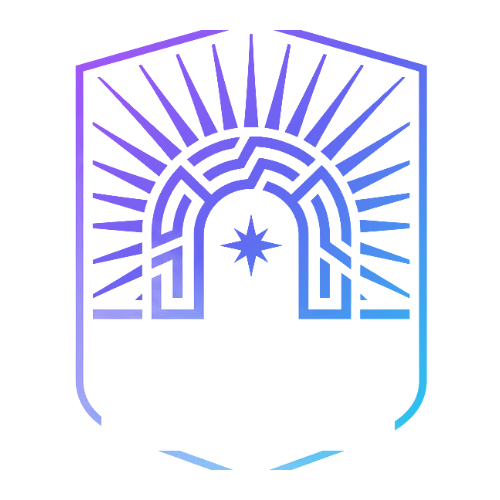
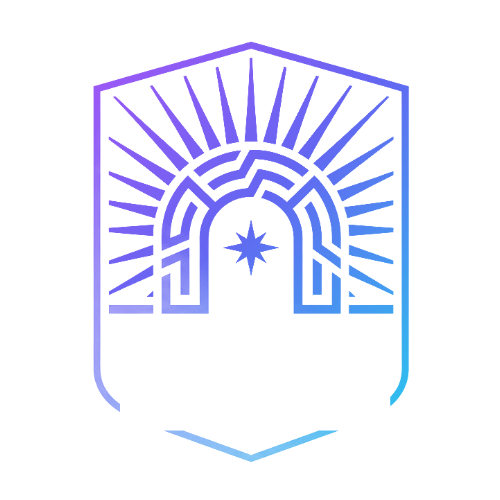
Corrige brasões cortados, centraliza última linha e expande satélites
- Conserta 5 brasões (Quíron, Apolo, Odyssey, Oráculo, Égide) que
  saíram com falhas visuais depois da remoção de texto: o crop estava
  curto demais e cortava a ponta do escudo, e a caixa preta usada pra
  apagar o texto embutido invadia a borda do escudo em alguns casos.
  Recalculei crop e blackout de cada um com uma grade de referência
  sobre a imagem original pra pegar as coordenadas certas.
- Última linha da grade de satélites (Oráculo/Égide, os 2 que sobram
  no desktop de 4 colunas) agora fica centralizada nas colunas do
  meio em vez de alinhada à esquerda.
- Cada card de satélite expande ao clicar (ou Enter/Espaço com
  teclado), mostrando um resumo de 2-3 frases do mecanismo técnico
  concreto por trás dele, nas 3 línguas — sem o jargão interno da
  spec (Tribunal da Forja, Break-Glass etc.), só o que é apresentável
  externamente. Expande só o card clicado (grid com align-items:
  start), sem esticar os vizinhos da mesma linha.

diff --git a/js/zenithcode-data.js b/js/zenithcode-data.js
@@ -75,20 +75,34 @@ const ZENITHCODE = {
       intro:
         "O núcleo (Z2A) é o kernel inviolável; cada satélite é um plugin opcional, acoplado só quando a empresa cruza um gatilho de dor real — nunca um monólito obrigatório.",
       items: [
-        { id: "01", slug: "themis", name: "Themis", domain: "Segurança & Compliance", gloss: "Gate determinístico de segurança: gera vulnerabilidade, o build quebra." },
-        { id: "02", slug: "argus", name: "Árgus", domain: "FinOps / Orçamento", gloss: "Orçamento como código: cada serviço carrega seu próprio custo real." },
-        { id: "03", slug: "dk-ops", name: "DK-Ops", domain: "Plataforma / SRE / IDP", gloss: "Plataforma interna que absorve a complexidade de infra do time de produto." },
-        { id: "04", slug: "quiron", name: "Quíron", domain: "RH Sociotécnico / Ergonomia", gloss: "Carga cognitiva e progressão de carreira tratadas como métrica de engenharia." },
-        { id: "05", slug: "hefesto", name: "Hefesto", domain: "Hardware / IoT / Gêmeos Digitais", gloss: "Simulação ciber-física antes de tocar hardware real." },
-        { id: "06", slug: "evelyn", name: "E.V.E.L.Y.N.", domain: "IA Central + Edge", gloss: "Modelos locais (SLMs) que sugerem, nunca decidem sozinhos." },
-        { id: "07", slug: "apolo", name: "Apolo", domain: "Go-To-Market / Vendas", gloss: "Gateway comercial: onde a arquitetura encontra o cliente." },
-        { id: "08", slug: "prometeu", name: "Prometeu", domain: "Validação / Red Team", gloss: "Conselho adversarial que tenta furar toda regra nova antes de valer." },
-        { id: "09", slug: "atlas", name: "Atlas", domain: "Governança Societária / Geográfica", gloss: "Compliance fiscal e jurídico como código, não como planilha." },
-        { id: "10", slug: "catharsis", name: "Catharsis", domain: "Desconstrução de Mindset", gloss: "Primeiro passo de quem entra: desaprender atalho antes de aprender arquitetura." },
-        { id: "11", slug: "hermes", name: "Hermes", domain: "Supply Chain / Logística", gloss: "Rastreabilidade ponta a ponta de tudo que é físico no sistema." },
-        { id: "12", slug: "odyssey", name: "Odyssey", domain: "Onboarding de Elite", gloss: "Cockpits setoriais que aceleram quem chega sem baixar a régua." },
-        { id: "13", slug: "oraculo", name: "Oráculo", domain: "Data Mesh / LGPD", gloss: "Dado tratado como produto, com dono e ciclo de vida, não como despejo." },
-        { id: "14", slug: "egide", name: "Égide", domain: "ITSM / Suporte", gloss: "Camada que absorve o chão de fábrica: incidentes, contratos, suporte." },
+        { id: "01", slug: "themis", name: "Themis", domain: "Segurança & Compliance", gloss: "Gate determinístico de segurança: gera vulnerabilidade, o build quebra.",
+          detail: "A manifestação prática é o AegisProtocol: um sidecar de identidade Zero-Trust que valida cada requisição por atributo (ABAC/RBAC) com cache local, então a latência de autorização fica perto de zero. Logs de auditoria são write-once (WORM): nem um administrador de banco consegue apagar um registro depois de gravado. O pipeline de CI trava o deploy automaticamente se a varredura SAST/dependências falhar, sem opção de ignorar manualmente." },
+        { id: "02", slug: "argus", name: "Árgus", domain: "FinOps / Orçamento", gloss: "Orçamento como código: cada serviço carrega seu próprio custo real.",
+          detail: "Cada serviço carrega seu próprio orçamento de erro (Error Budget) e seu custo real calculado por TDABC automatizado, telemetria que atribui custo de infraestrutura a cada objeto de negócio, não só ao time de TI. Estourar o orçamento de confiabilidade convertido em orçamento financeiro trava novas features até a equipe restaurar o SLO. A meta é que decisão de arquitetura e decisão financeira usem o mesmo número, não dois relatórios que nunca se cruzam." },
+        { id: "03", slug: "dk-ops", name: "DK-Ops", domain: "Plataforma / SRE / IDP", gloss: "Plataforma interna que absorve a complexidade de infra do time de produto.",
+          detail: "Plataforma interna de desenvolvimento (IDP) que oferece \"golden paths\": modelos prontos de infraestrutura como código (Pulumi) que já vêm com guardrails de segurança e observabilidade embutidos, então o time de produto não precisa reinventar a esteira toda vez. Deploys são progressivos (canary/blue-green) com rollback automático se as métricas de erro subirem. Manifestação real: o Vertex, o Internal Developer Platform que já roda como projeto de verdade." },
+        { id: "04", slug: "quiron", name: "Quíron", domain: "RH Sociotécnico / Ergonomia", gloss: "Carga cognitiva e progressão de carreira tratadas como métrica de engenharia.",
+          detail: "Trata carga cognitiva como uma métrica de engenharia, não como opinião: mede proxies objetivos como número de contextos/sistemas diferentes que uma pessoa precisa tocar por semana e a complexidade sob titularidade de cada dev. Ultrapassar o limiar aciona redistribuição de trabalho antes de virar esgotamento, e a progressão de carreira é atrelada a evidência técnica registrada, não a tempo de casa." },
+        { id: "05", slug: "hefesto", name: "Hefesto", domain: "Hardware / IoT / Gêmeos Digitais", gloss: "Simulação ciber-física antes de tocar hardware real.",
+          detail: "Antes de qualquer mudança tocar um equipamento físico de verdade, ela roda primeiro contra um gêmeo digital, uma simulação do comportamento real do hardware. Atualizações chegam ao equipamento por OTA (over-the-air) com um circuit breaker físico que corta a operação se a telemetria sair da faixa esperada, evitando que um bug de software vire um incidente físico." },
+        { id: "06", slug: "evelyn", name: "E.V.E.L.Y.N.", domain: "IA Central + Edge", gloss: "Modelos locais (SLMs) que sugerem, nunca decidem sozinhos.",
+          detail: "Em vez de um modelo generalista único, treina modelos de linguagem pequenos (SLMs) especializados por domínio, cada um exposto só aos dados daquele domínio. Nenhuma sugestão de IA chega ao código sem passar pelos testes automatizados do pipeline, e cada resposta carrega a assinatura do modelo/parâmetros usados, pra ficar auditável depois. Toda atualização de modelo roda 2 semanas em modo sombra antes de ser promovida, e é bloqueada automaticamente se piorar em qualquer caso de um conjunto fixo de testes de segurança." },
+        { id: "07", slug: "apolo", name: "Apolo", domain: "Go-To-Market / Vendas", gloss: "Gateway comercial: onde a arquitetura encontra o cliente.",
+          detail: "Funciona como um gateway comercial que traduz artefatos técnicos internos (controles de acesso, compliance, observabilidade) para a terminologia que um cliente ou auditor externo reconhece (ISO, RBAC/ABAC), sem alterar o registro técnico original: só a camada de apresentação muda. Exports para auditoria passam por redação automática que remove PII e identificadores internos antes de sair." },
+        { id: "08", slug: "prometeu", name: "Prometeu", domain: "Validação / Red Team", gloss: "Conselho adversarial que tenta furar toda regra nova antes de valer.",
+          detail: "Comitê de validação que avalia mudanças estruturais antes de consumirem orçamento, com o rigor calibrado pelo raio de impacto: mudanças no núcleo exigem consenso total, experimentos isolados seguem um rito simplificado testado numa fatia pequena do tráfego real. Toda decisão vira um registro formal com o trade-off aceito, e revisões excepcionais são auditadas por engenheiros sêniores que colocam a própria reputação em jogo ao aprovar." },
+        { id: "09", slug: "atlas", name: "Atlas", domain: "Governança Societária / Geográfica", gloss: "Compliance fiscal e jurídico como código, não como planilha.",
+          detail: "Trata compliance fiscal e jurídico como código versionado, não como planilha de contador: cada jurisdição/CNPJ tem suas regras fiscais expressas como configuração testável. Isola o raio de impacto por entidade societária, então um incidente numa filial não derruba as outras." },
+        { id: "10", slug: "catharsis", name: "Catharsis", domain: "Desconstrução de Mindset", gloss: "Primeiro passo de quem entra: desaprender atalho antes de aprender arquitetura.",
+          detail: "Onboarding obrigatório em três etapas: auditar um repositório real com falhas conhecidas de segurança, refatorar um módulo aplicando arquitetura limpa e testes automatizados sem usar IA generativa, e defender oralmente as decisões tomadas. A ideia é desaprender o atalho antes de aprender o padrão: prestadores de curto prazo pulam essa etapa e a confiança fica só por conta de controles automatizados." },
+        { id: "11", slug: "hermes", name: "Hermes", domain: "Supply Chain / Logística", gloss: "Rastreabilidade ponta a ponta de tudo que é físico no sistema.",
+          detail: "Rastreia cada item físico ponta a ponta, do fornecedor até o descarte, com telemetria de depreciação alimentando o cálculo de custo real do Árgus. Qualquer ruptura na cadeia (atraso, extravio) dispara alerta automático em vez de ser descoberta só na contagem de estoque." },
+        { id: "12", slug: "odyssey", name: "Odyssey", domain: "Onboarding de Elite", gloss: "Cockpits setoriais que aceleram quem chega sem baixar a régua.",
+          detail: "Certificação técnica por competência, não por tempo de casa: quatro módulos avaliados por prova prática, desacoplar dependências externas, testar invasão/escalonamento de privilégio, analisar performance e aprender uma tecnologia nova só com a documentação oficial. Quem entra faz um deploy real em produção já no primeiro dia; terceiros de curto prazo cursam só o módulo de segurança." },
+        { id: "13", slug: "oraculo", name: "Oráculo", domain: "Data Mesh / LGPD", gloss: "Dado tratado como produto, com dono e ciclo de vida, não como despejo.",
+          detail: "Cada dado tem um dono e um ciclo de vida definido, não fica solto num data lake sem responsável. Direito ao esquecimento (LGPD) é resolvido via crypto-shredding: destrói só a chave de criptografia daquele dado, que vira ruído matemático irrecuperável sem precisar tocar nos logs imutáveis de auditoria." },
+        { id: "14", slug: "egide", name: "Égide", domain: "ITSM / Suporte", gloss: "Camada que absorve o chão de fábrica: incidentes, contratos, suporte.",
+          detail: "Suporte técnico em camadas (autoatendimento, triagem por runbook, e uma camada de observabilidade com acesso só-leitura ao banco) que isola engenheiros de interrupção direta; chamados sem informação padronizada (passos de reprodução, evidência, impacto) são rejeitados automaticamente. Um incidente só fecha de verdade quando um teste de regressão daquela falha específica entra no pipeline, não quando alguém marca o chamado como resolvido." },
       ],
     },
     whenNot: {
@@ -169,20 +183,34 @@ const ZENITHCODE = {
       title: "The 14 satellites",
       intro: "The core (Z2A) is the inviolable kernel; each satellite is an optional plugin, attached only once the company crosses a real pain trigger — never a mandatory monolith.",
       items: [
-        { id: "01", slug: "themis", name: "Themis", domain: "Security & Compliance", gloss: "Deterministic security gate: trigger a vulnerability, the build breaks." },
-        { id: "02", slug: "argus", name: "Argus", domain: "FinOps / Budget", gloss: "Budget as code: every service carries its own real cost." },
-        { id: "03", slug: "dk-ops", name: "DK-Ops", domain: "Platform / SRE / IDP", gloss: "Internal platform that absorbs infra complexity for the product team." },
-        { id: "04", slug: "quiron", name: "Quiron", domain: "Sociotechnical HR / Ergonomics", gloss: "Cognitive load and career progression treated as an engineering metric." },
-        { id: "05", slug: "hefesto", name: "Hefesto", domain: "Hardware / IoT / Digital Twins", gloss: "Cyber-physical simulation before touching real hardware." },
-        { id: "06", slug: "evelyn", name: "E.V.E.L.Y.N.", domain: "Central + Edge AI", gloss: "Local models (SLMs) that suggest, never decide alone." },
-        { id: "07", slug: "apolo", name: "Apolo", domain: "Go-To-Market / Sales", gloss: "Commercial gateway: where the architecture meets the customer." },
-        { id: "08", slug: "prometeu", name: "Prometeu", domain: "Validation / Red Team", gloss: "An adversarial council that tries to break every new rule before it counts." },
-        { id: "09", slug: "atlas", name: "Atlas", domain: "Corporate / Geographic Governance", gloss: "Tax and legal compliance as code, not as a spreadsheet." },
-        { id: "10", slug: "catharsis", name: "Catharsis", domain: "Mindset Deconstruction", gloss: "The first step for newcomers: unlearn shortcuts before learning architecture." },
-        { id: "11", slug: "hermes", name: "Hermes", domain: "Supply Chain / Logistics", gloss: "End-to-end traceability for everything physical in the system." },
-        { id: "12", slug: "odyssey", name: "Odyssey", domain: "Elite Onboarding", gloss: "Sector-specific cockpits that fast-track newcomers without lowering the bar." },
-        { id: "13", slug: "oraculo", name: "Oraculo", domain: "Data Mesh / LGPD", gloss: "Data treated as a product, with an owner and a lifecycle, not a dumping ground." },
-        { id: "14", slug: "egide", name: "Egide", domain: "ITSM / Support", gloss: "The layer that absorbs the shop floor: incidents, contracts, support." },
+        { id: "01", slug: "themis", name: "Themis", domain: "Security & Compliance", gloss: "Deterministic security gate: trigger a vulnerability, the build breaks.",
+          detail: "Its real-world form is AegisProtocol: a Zero-Trust identity sidecar that validates every request by attribute (ABAC/RBAC) with a local cache, keeping authorization latency near zero. Audit logs are write-once (WORM) — not even a database admin can delete a record after it's written. The CI pipeline automatically blocks deploys on a failed SAST/dependency scan, with no manual override." },
+        { id: "02", slug: "argus", name: "Argus", domain: "FinOps / Budget", gloss: "Budget as code: every service carries its own real cost.",
+          detail: "Every service carries its own error budget and its real cost, computed by automated TDABC telemetry that attributes infrastructure spend to business objects, not just to the IT line item. Blowing the reliability budget converts into a financial one and freezes new features until the team restores the SLO. The goal is for architecture decisions and financial decisions to run off the same number instead of two reports that never meet." },
+        { id: "03", slug: "dk-ops", name: "DK-Ops", domain: "Platform / SRE / IDP", gloss: "Internal platform that absorbs infra complexity for the product team.",
+          detail: "An internal developer platform (IDP) offering \"golden paths\": ready-made infrastructure-as-code templates (Pulumi) with security and observability guardrails baked in, so product teams don't rebuild the pipeline from scratch each time. Deploys are progressive (canary/blue-green) with automatic rollback if error metrics spike. Its real manifestation is Vertex, the Internal Developer Platform already running as an actual project." },
+        { id: "04", slug: "quiron", name: "Quiron", domain: "Sociotechnical HR / Ergonomics", gloss: "Cognitive load and career progression treated as an engineering metric.",
+          detail: "Treats cognitive load as an engineering metric, not an opinion: it tracks objective proxies like how many different systems a person touches per week and the complexity they own. Crossing the threshold triggers workload redistribution before it turns into burnout, and career progression is tied to recorded technical evidence, not tenure." },
+        { id: "05", slug: "hefesto", name: "Hefesto", domain: "Hardware / IoT / Digital Twins", gloss: "Cyber-physical simulation before touching real hardware.",
+          detail: "Before any change touches real physical equipment, it first runs against a digital twin, a simulation of the hardware's real behavior. Updates reach the device over-the-air with a physical circuit breaker that cuts operation if telemetry drifts outside the expected range, so a software bug can't turn into a physical incident." },
+        { id: "06", slug: "evelyn", name: "E.V.E.L.Y.N.", domain: "Central + Edge AI", gloss: "Local models (SLMs) that suggest, never decide alone.",
+          detail: "Instead of one general-purpose model, it trains small, domain-specialized language models (SLMs), each exposed only to that domain's data. No AI suggestion reaches production code without passing the pipeline's automated tests, and every response carries a signature of the model/parameters used, so it stays auditable later. Every model update runs two weeks in shadow mode before promotion, and is automatically blocked if it regresses on any case in a fixed security test set." },
+        { id: "07", slug: "apolo", name: "Apolo", domain: "Go-To-Market / Sales", gloss: "Commercial gateway: where the architecture meets the customer.",
+          detail: "Works as a commercial gateway that translates internal technical artifacts (access control, compliance, observability) into terminology a customer or external auditor recognizes (ISO, RBAC/ABAC), without touching the underlying technical record — only the presentation layer changes. Exports for external audits go through automatic redaction that strips PII and internal identifiers before they leave." },
+        { id: "08", slug: "prometeu", name: "Prometeu", domain: "Validation / Red Team", gloss: "An adversarial council that tries to break every new rule before it counts.",
+          detail: "A validation council that reviews structural changes before they consume budget, with review rigor calibrated to blast radius: core changes require full consensus, isolated experiments follow a lighter process tested against a small slice of real traffic. Every decision becomes a formal record with the accepted trade-off, and exceptional reviews are audited by senior engineers who stake their own reputation on approving it." },
+        { id: "09", slug: "atlas", name: "Atlas", domain: "Corporate / Geographic Governance", gloss: "Tax and legal compliance as code, not as a spreadsheet.",
+          detail: "Treats tax and legal compliance as versioned code, not an accountant's spreadsheet: each jurisdiction/legal entity has its fiscal rules expressed as testable configuration. It isolates blast radius by legal entity, so an incident in one subsidiary doesn't take down the others." },
+        { id: "10", slug: "catharsis", name: "Catharsis", domain: "Mindset Deconstruction", gloss: "The first step for newcomers: unlearn shortcuts before learning architecture.",
+          detail: "Mandatory onboarding in three steps: audit a real repository with known security flaws, refactor a module applying clean architecture and automated tests without generative AI, then defend the decisions out loud. The point is unlearning the shortcut before learning the pattern: short-term contractors skip this step, with trust resting entirely on automated controls instead." },
+        { id: "11", slug: "hermes", name: "Hermes", domain: "Supply Chain / Logistics", gloss: "End-to-end traceability for everything physical in the system.",
+          detail: "Tracks every physical item end-to-end, from supplier to disposal, feeding depreciation telemetry into Argus's real-cost calculation. Any break in the chain — delay, loss — triggers an automatic alert instead of being discovered only at inventory count." },
+        { id: "12", slug: "odyssey", name: "Odyssey", domain: "Elite Onboarding", gloss: "Sector-specific cockpits that fast-track newcomers without lowering the bar.",
+          detail: "Competency-based technical certification, not tenure-based: four modules assessed through hands-on tests — decoupling external dependencies, penetration/privilege-escalation testing, performance analysis, and learning a new technology from official docs alone. New hires ship a real, if small, production deploy on day one; short-term contractors only take the security module." },
+        { id: "13", slug: "oraculo", name: "Oraculo", domain: "Data Mesh / LGPD", gloss: "Data treated as a product, with an owner and a lifecycle, not a dumping ground.",
+          detail: "Every piece of data has an owner and a defined lifecycle instead of sitting unaccounted for in a data lake. The right to be forgotten (LGPD/GDPR) is handled via crypto-shredding: destroying just that data's encryption key turns it into unrecoverable mathematical noise, without touching the immutable audit logs." },
+        { id: "14", slug: "egide", name: "Egide", domain: "ITSM / Support", gloss: "The layer that absorbs the shop floor: incidents, contracts, support.",
+          detail: "Layered technical support (self-service, runbook-driven triage, and a read-only observability layer) that shields engineers from direct interruptions; tickets missing standardized information (repro steps, evidence, impact) are auto-rejected. An incident only truly closes when an automated regression test for that specific failure lands in the pipeline, not when someone marks the ticket resolved." },
       ],
     },
     whenNot: {
@@ -263,20 +291,34 @@ const ZENITHCODE = {
       title: "Los 14 satélites",
       intro: "El núcleo (Z2A) es el kernel inviolable; cada satélite es un plugin opcional, que se acopla solo cuando la empresa cruza un disparador de dolor real, nunca un monolito obligatorio.",
       items: [
-        { id: "01", slug: "themis", name: "Themis", domain: "Seguridad y Cumplimiento", gloss: "Gate determinístico de seguridad: genera vulnerabilidad, el build falla." },
-        { id: "02", slug: "argus", name: "Argus", domain: "FinOps / Presupuesto", gloss: "Presupuesto como código: cada servicio lleva su propio costo real." },
-        { id: "03", slug: "dk-ops", name: "DK-Ops", domain: "Plataforma / SRE / IDP", gloss: "Plataforma interna que absorbe la complejidad de infra del equipo de producto." },
-        { id: "04", slug: "quiron", name: "Quirón", domain: "RRHH Sociotécnico / Ergonomía", gloss: "Carga cognitiva y progresión de carrera tratadas como métrica de ingeniería." },
-        { id: "05", slug: "hefesto", name: "Hefesto", domain: "Hardware / IoT / Gemelos Digitales", gloss: "Simulación ciberfísica antes de tocar hardware real." },
-        { id: "06", slug: "evelyn", name: "E.V.E.L.Y.N.", domain: "IA Central + Edge", gloss: "Modelos locales (SLMs) que sugieren, nunca deciden solos." },
-        { id: "07", slug: "apolo", name: "Apolo", domain: "Go-To-Market / Ventas", gloss: "Gateway comercial: donde la arquitectura encuentra al cliente." },
-        { id: "08", slug: "prometeu", name: "Prometeo", domain: "Validación / Red Team", gloss: "Consejo adversarial que intenta romper cada regla nueva antes de que cuente." },
-        { id: "09", slug: "atlas", name: "Atlas", domain: "Gobernanza Societaria / Geográfica", gloss: "Cumplimiento fiscal y legal como código, no como planilla." },
-        { id: "10", slug: "catharsis", name: "Catharsis", domain: "Deconstrucción de Mentalidad", gloss: "El primer paso de quien llega: desaprender atajos antes de aprender arquitectura." },
-        { id: "11", slug: "hermes", name: "Hermes", domain: "Supply Chain / Logística", gloss: "Trazabilidad de punta a punta de todo lo físico en el sistema." },
-        { id: "12", slug: "odyssey", name: "Odyssey", domain: "Onboarding de Élite", gloss: "Cabinas sectoriales que aceleran a quien llega sin bajar el estándar." },
-        { id: "13", slug: "oraculo", name: "Oráculo", domain: "Data Mesh / LGPD", gloss: "Dato tratado como producto, con dueño y ciclo de vida, no como vertedero." },
-        { id: "14", slug: "egide", name: "Égide", domain: "ITSM / Soporte", gloss: "La capa que absorbe el piso de fábrica: incidentes, contratos, soporte." },
+        { id: "01", slug: "themis", name: "Themis", domain: "Seguridad y Cumplimiento", gloss: "Gate determinístico de seguridad: genera vulnerabilidad, el build falla.",
+          detail: "Su manifestación real es AegisProtocol: un sidecar de identidad Zero-Trust que valida cada solicitud por atributo (ABAC/RBAC) con caché local, manteniendo la latencia de autorización cerca de cero. Los logs de auditoría son de escritura única (WORM): ni un administrador de base de datos puede borrar un registro después de escrito. El pipeline de CI bloquea automáticamente el deploy si falla el escaneo SAST/dependencias, sin opción de anularlo manualmente." },
+        { id: "02", slug: "argus", name: "Argus", domain: "FinOps / Presupuesto", gloss: "Presupuesto como código: cada servicio lleva su propio costo real.",
+          detail: "Cada servicio lleva su propio presupuesto de error y su costo real, calculado por telemetría TDABC automatizada que atribuye el gasto de infraestructura a objetos de negocio, no solo a la línea de TI. Agotar el presupuesto de confiabilidad se convierte en uno financiero y congela funciones nuevas hasta restaurar el SLO. La meta es que la decisión de arquitectura y la financiera usen el mismo número, no dos informes que nunca se cruzan." },
+        { id: "03", slug: "dk-ops", name: "DK-Ops", domain: "Plataforma / SRE / IDP", gloss: "Plataforma interna que absorbe la complejidad de infra del equipo de producto.",
+          detail: "Plataforma interna de desarrollo (IDP) que ofrece \"golden paths\": plantillas listas de infraestructura como código (Pulumi) con guardrails de seguridad y observabilidad ya incluidos, para que el equipo de producto no reconstruya el pipeline cada vez. Los deploys son progresivos (canary/blue-green) con rollback automático si las métricas de error suben. Su manifestación real es Vertex, la Internal Developer Platform que ya corre como proyecto de verdad." },
+        { id: "04", slug: "quiron", name: "Quirón", domain: "RRHH Sociotécnico / Ergonomía", gloss: "Carga cognitiva y progresión de carrera tratadas como métrica de ingeniería.",
+          detail: "Trata la carga cognitiva como una métrica de ingeniería, no como opinión: mide proxies objetivos como cuántos sistemas distintos toca una persona por semana y la complejidad bajo su titularidad. Cruzar el umbral activa redistribución de trabajo antes de que se convierta en agotamiento, y la progresión de carrera se ata a evidencia técnica registrada, no a la antigüedad." },
+        { id: "05", slug: "hefesto", name: "Hefesto", domain: "Hardware / IoT / Gemelos Digitales", gloss: "Simulación ciberfísica antes de tocar hardware real.",
+          detail: "Antes de que cualquier cambio toque un equipo físico real, corre primero contra un gemelo digital: una simulación del comportamiento real del hardware. Las actualizaciones llegan por OTA con un interruptor físico que corta la operación si la telemetría sale del rango esperado, evitando que un bug de software se convierta en un incidente físico." },
+        { id: "06", slug: "evelyn", name: "E.V.E.L.Y.N.", domain: "IA Central + Edge", gloss: "Modelos locales (SLMs) que sugieren, nunca deciden solos.",
+          detail: "En lugar de un modelo generalista único, entrena modelos de lenguaje pequeños (SLMs) especializados por dominio, cada uno expuesto solo a los datos de ese dominio. Ninguna sugerencia de IA llega al código de producción sin pasar por las pruebas automatizadas del pipeline, y cada respuesta lleva la firma del modelo/parámetros usados, para quedar auditable después. Cada actualización de modelo corre dos semanas en modo sombra antes de promoverse, y se bloquea automáticamente si empeora en cualquier caso de un conjunto fijo de pruebas de seguridad." },
+        { id: "07", slug: "apolo", name: "Apolo", domain: "Go-To-Market / Ventas", gloss: "Gateway comercial: donde la arquitectura encuentra al cliente.",
+          detail: "Funciona como un gateway comercial que traduce artefactos técnicos internos (control de acceso, compliance, observabilidad) a la terminología que un cliente o auditor externo reconoce (ISO, RBAC/ABAC), sin tocar el registro técnico original: solo cambia la capa de presentación. Las exportaciones para auditoría externa pasan por redacción automática que elimina PII e identificadores internos antes de salir." },
+        { id: "08", slug: "prometeu", name: "Prometeo", domain: "Validación / Red Team", gloss: "Consejo adversarial que intenta romper cada regla nueva antes de que cuente.",
+          detail: "Consejo de validación que evalúa cambios estructurales antes de que consuman presupuesto, con el rigor calibrado por el radio de impacto: cambios en el núcleo exigen consenso total, experimentos aislados siguen un rito más simple probado en una porción pequeña de tráfico real. Cada decisión se convierte en un registro formal con el trade-off aceptado, y las revisiones excepcionales las auditan ingenieros sénior que ponen su propia reputación en juego al aprobar." },
+        { id: "09", slug: "atlas", name: "Atlas", domain: "Gobernanza Societaria / Geográfica", gloss: "Cumplimiento fiscal y legal como código, no como planilla.",
+          detail: "Trata el cumplimiento fiscal y legal como código versionado, no como planilla de contador: cada jurisdicción/entidad legal tiene sus reglas fiscales expresadas como configuración probable. Aísla el radio de impacto por entidad societaria, así un incidente en una filial no derriba a las demás." },
+        { id: "10", slug: "catharsis", name: "Catharsis", domain: "Deconstrucción de Mentalidad", gloss: "El primer paso de quien llega: desaprender atajos antes de aprender arquitectura.",
+          detail: "Onboarding obligatorio en tres etapas: auditar un repositorio real con fallas de seguridad conocidas, refactorizar un módulo aplicando arquitectura limpia y pruebas automatizadas sin usar IA generativa, y defender oralmente las decisiones tomadas. La idea es desaprender el atajo antes de aprender el patrón: los contratistas de corto plazo se saltan esta etapa y la confianza queda solo a cargo de controles automatizados." },
+        { id: "11", slug: "hermes", name: "Hermes", domain: "Supply Chain / Logística", gloss: "Trazabilidad de punta a punta de todo lo físico en el sistema.",
+          detail: "Rastrea cada ítem físico de punta a punta, desde el proveedor hasta el descarte, alimentando la telemetría de depreciación que usa Árgus para calcular el costo real. Cualquier ruptura en la cadena (retraso, extravío) dispara una alerta automática en vez de descubrirse recién en el conteo de inventario." },
+        { id: "12", slug: "odyssey", name: "Odyssey", domain: "Onboarding de Élite", gloss: "Cabinas sectoriales que aceleran a quien llega sin bajar el estándar.",
+          detail: "Certificación técnica por competencia, no por antigüedad: cuatro módulos evaluados con pruebas prácticas, desacoplar dependencias externas, pruebas de intrusión/escalamiento de privilegios, análisis de rendimiento y aprender una tecnología nueva solo con la documentación oficial. Quien entra hace un deploy real, aunque pequeño, en producción desde el primer día; los contratistas de corto plazo solo cursan el módulo de seguridad." },
+        { id: "13", slug: "oraculo", name: "Oráculo", domain: "Data Mesh / LGPD", gloss: "Dato tratado como producto, con dueño y ciclo de vida, no como vertedero.",
+          detail: "Cada dato tiene un dueño y un ciclo de vida definido, no queda suelto en un data lake sin responsable. El derecho al olvido (LGPD/GDPR) se resuelve vía crypto-shredding: destruir solo la clave de cifrado de ese dato lo convierte en ruido matemático irrecuperable, sin tocar los logs de auditoría inmutables." },
+        { id: "14", slug: "egide", name: "Égide", domain: "ITSM / Soporte", gloss: "La capa que absorbe el piso de fábrica: incidentes, contratos, soporte.",
+          detail: "Soporte técnico en capas (autoservicio, triage por runbook, y una capa de observabilidad con acceso de solo lectura a la base de datos) que aísla a los ingenieros de interrupciones directas; los tickets sin información estandarizada (pasos de reproducción, evidencia, impacto) se rechazan automáticamente. Un incidente solo cierra de verdad cuando una prueba de regresión de esa falla específica entra al pipeline, no cuando alguien marca el ticket como resuelto." },
       ],
     },
     whenNot: {

diff --git a/css/zenithcode.css b/css/zenithcode.css
@@ -309,8 +309,27 @@
 
 .zc-satellites-grid {
   display: grid;
-  grid-template-columns: repeat(auto-fill, minmax(200px, 1fr));
+  grid-template-columns: repeat(2, 1fr);
   gap: 1.1rem;
+  align-items: start;
+}
+
+/* Grade fixa de 4 colunas no desktop: com 14 satélites a última linha
+   fica com 2, então centralizamos eles nas colunas do meio em vez de
+   deixar alinhados à esquerda (o framework não deve ganhar novos
+   pilares tão cedo — se ganhar, é só remover o nth-child abaixo). */
+@media (min-width: 900px) {
+  .zc-satellites-grid {
+    grid-template-columns: repeat(4, 1fr);
+  }
+
+  .zc-satellite-card:nth-child(13) {
+    grid-column: 2;
+  }
+
+  .zc-satellite-card:nth-child(14) {
+    grid-column: 3;
+  }
 }
 
 .zc-satellite-card {
@@ -320,7 +339,13 @@
   padding: 1.25rem 1.1rem;
   text-align: center;
   scroll-margin-top: 84px;
+  cursor: pointer;
   transition: border-color 0.15s ease, transform 0.15s ease, background 0.6s ease;
+}
+
+.zc-satellite-card:focus-visible {
+  outline: 2px solid var(--accent);
+  outline-offset: 2px;
 }
 
 .zc-satellite-card:target {
@@ -369,6 +394,42 @@
   line-height: 1.5;
 }
 
+.zc-sat-chevron {
+  display: block;
+  margin-top: 0.6rem;
+  color: var(--muted-dim);
+  font-size: 0.75rem;
+  transition: transform 0.2s ease, color 0.15s ease;
+}
+
+.zc-satellite-card:hover .zc-sat-chevron {
+  color: var(--accent);
+}
+
+.zc-satellite-card.expanded .zc-sat-chevron {
+  transform: rotate(180deg);
+  color: var(--accent);
+}
+
+.zc-sat-detail {
+  text-align: left;
+  max-height: 0;
+  opacity: 0;
+  overflow: hidden;
+  margin-top: 0;
+  padding-top: 0;
+  border-top: 0px solid var(--border-soft);
+  transition: max-height 0.35s ease, opacity 0.3s ease, margin-top 0.35s ease, padding-top 0.35s ease;
+}
+
+.zc-satellite-card.expanded .zc-sat-detail {
+  max-height: 400px;
+  opacity: 1;
+  margin-top: 0.85rem;
+  padding-top: 0.85rem;
+  border-top: 1px solid var(--border-soft);
+}
+
 .zc-when-not {
   list-style: none;
   display: flex;
@@ -405,6 +466,9 @@
 }
 
 @media (max-width: 640px) {
+  .zc-satellites-grid {
+    grid-template-columns: 1fr;
+  }
   .zc-measure-item {
     grid-template-columns: 1fr;
     gap: 0.3rem;

diff --git a/js/zenithcode.js b/js/zenithcode.js
@@ -120,6 +120,9 @@
       zc.satellites.items.forEach((sat) => {
         const card = el("div", "zc-satellite-card");
         card.id = sat.slug;
+        card.tabIndex = 0;
+        card.setAttribute("role", "button");
+        card.setAttribute("aria-expanded", "false");
         const img = document.createElement("img");
         img.src = `assets/z2a/emblemas/${sat.id}_${sat.slug}.png`;
         img.alt = sat.name;
@@ -129,6 +132,21 @@
         card.appendChild(el("h3", null, sat.name));
         card.appendChild(el("span", "zc-sat-domain", sat.domain));
         card.appendChild(el("p", null, sat.gloss));
+        if (sat.detail) {
+          card.appendChild(el("p", "zc-sat-detail", sat.detail));
+          card.appendChild(el("span", "zc-sat-chevron", "▾"));
+          const toggle = () => {
+            const expanded = card.classList.toggle("expanded");
+            card.setAttribute("aria-expanded", String(expanded));
+          };
+          card.addEventListener("click", toggle);
+          card.addEventListener("keydown", (e) => {
+            if (e.key === "Enter" || e.key === " ") {
+              e.preventDefault();
+              toggle();
+            }
+          });
+        }
         satGrid.appendChild(card);
       });
     }
